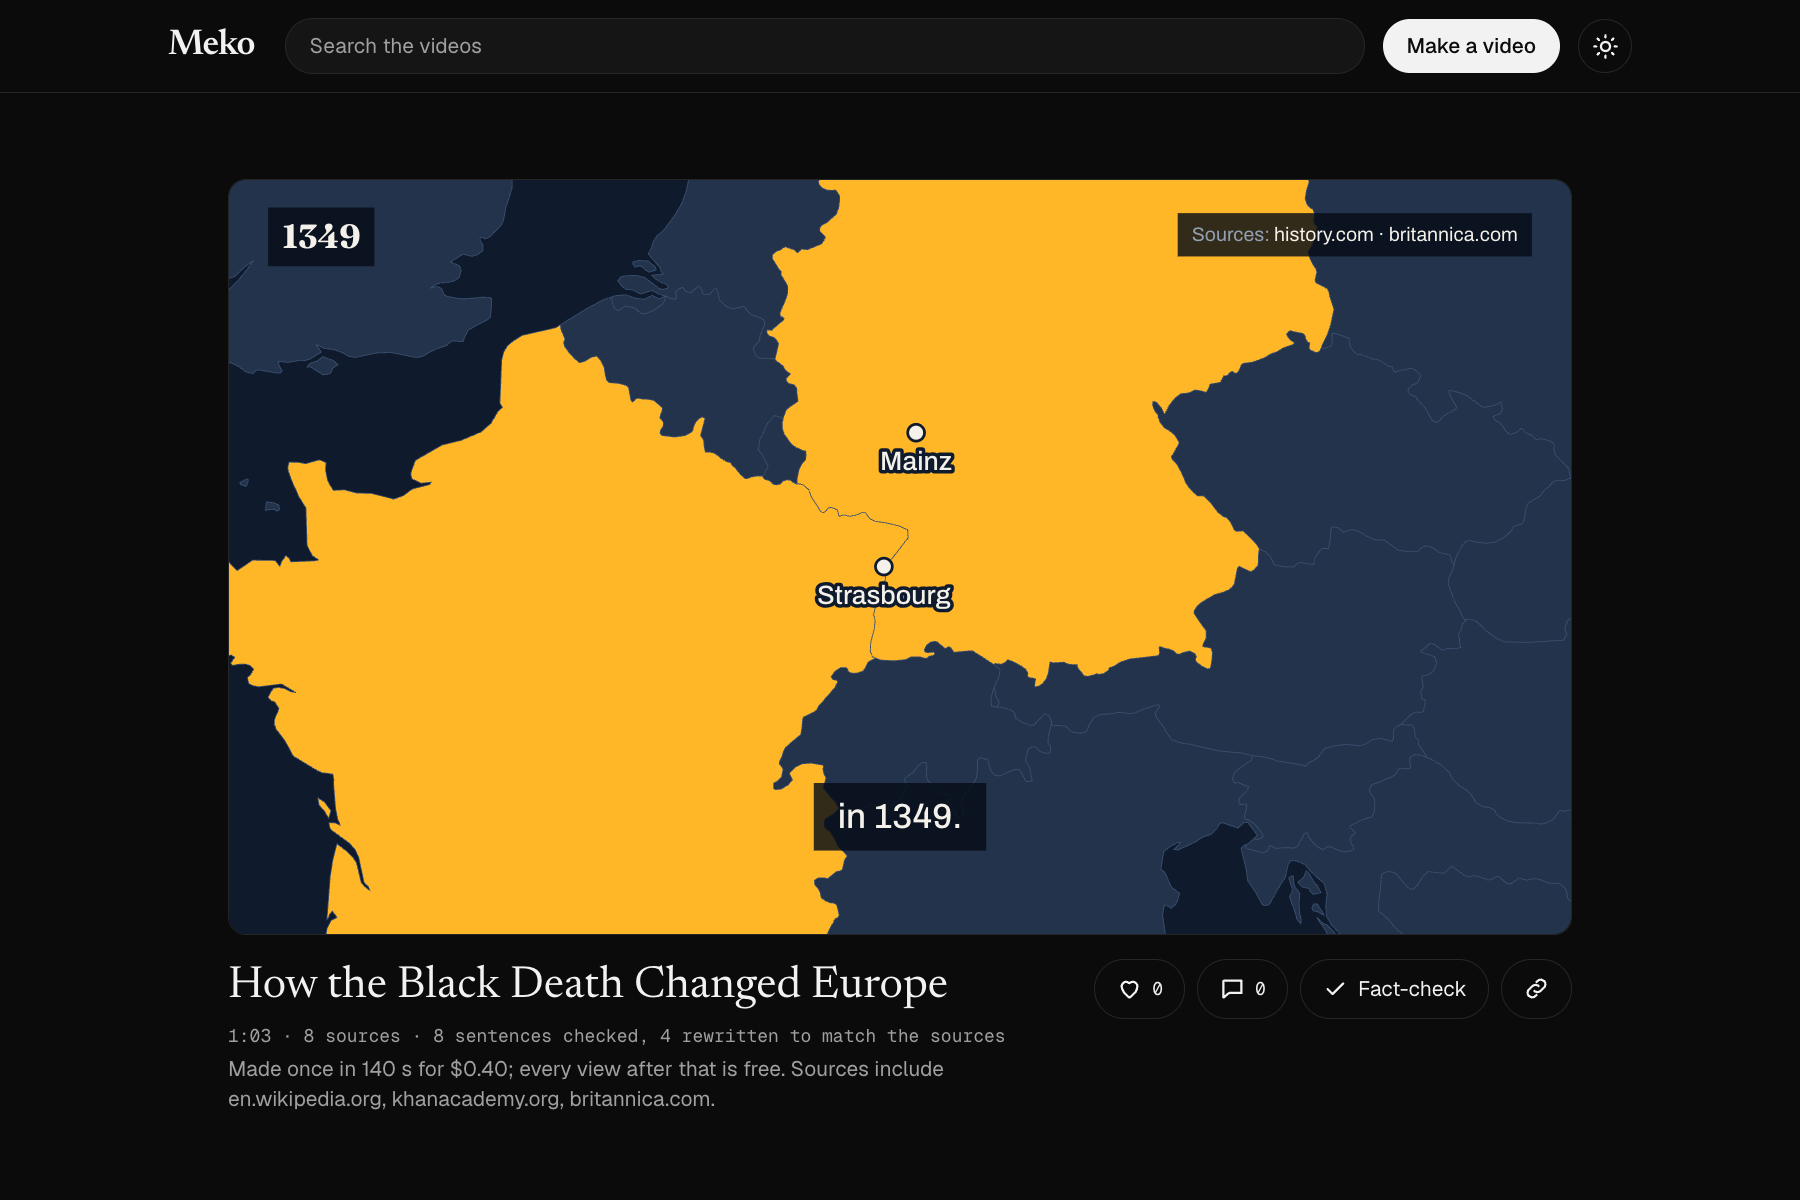
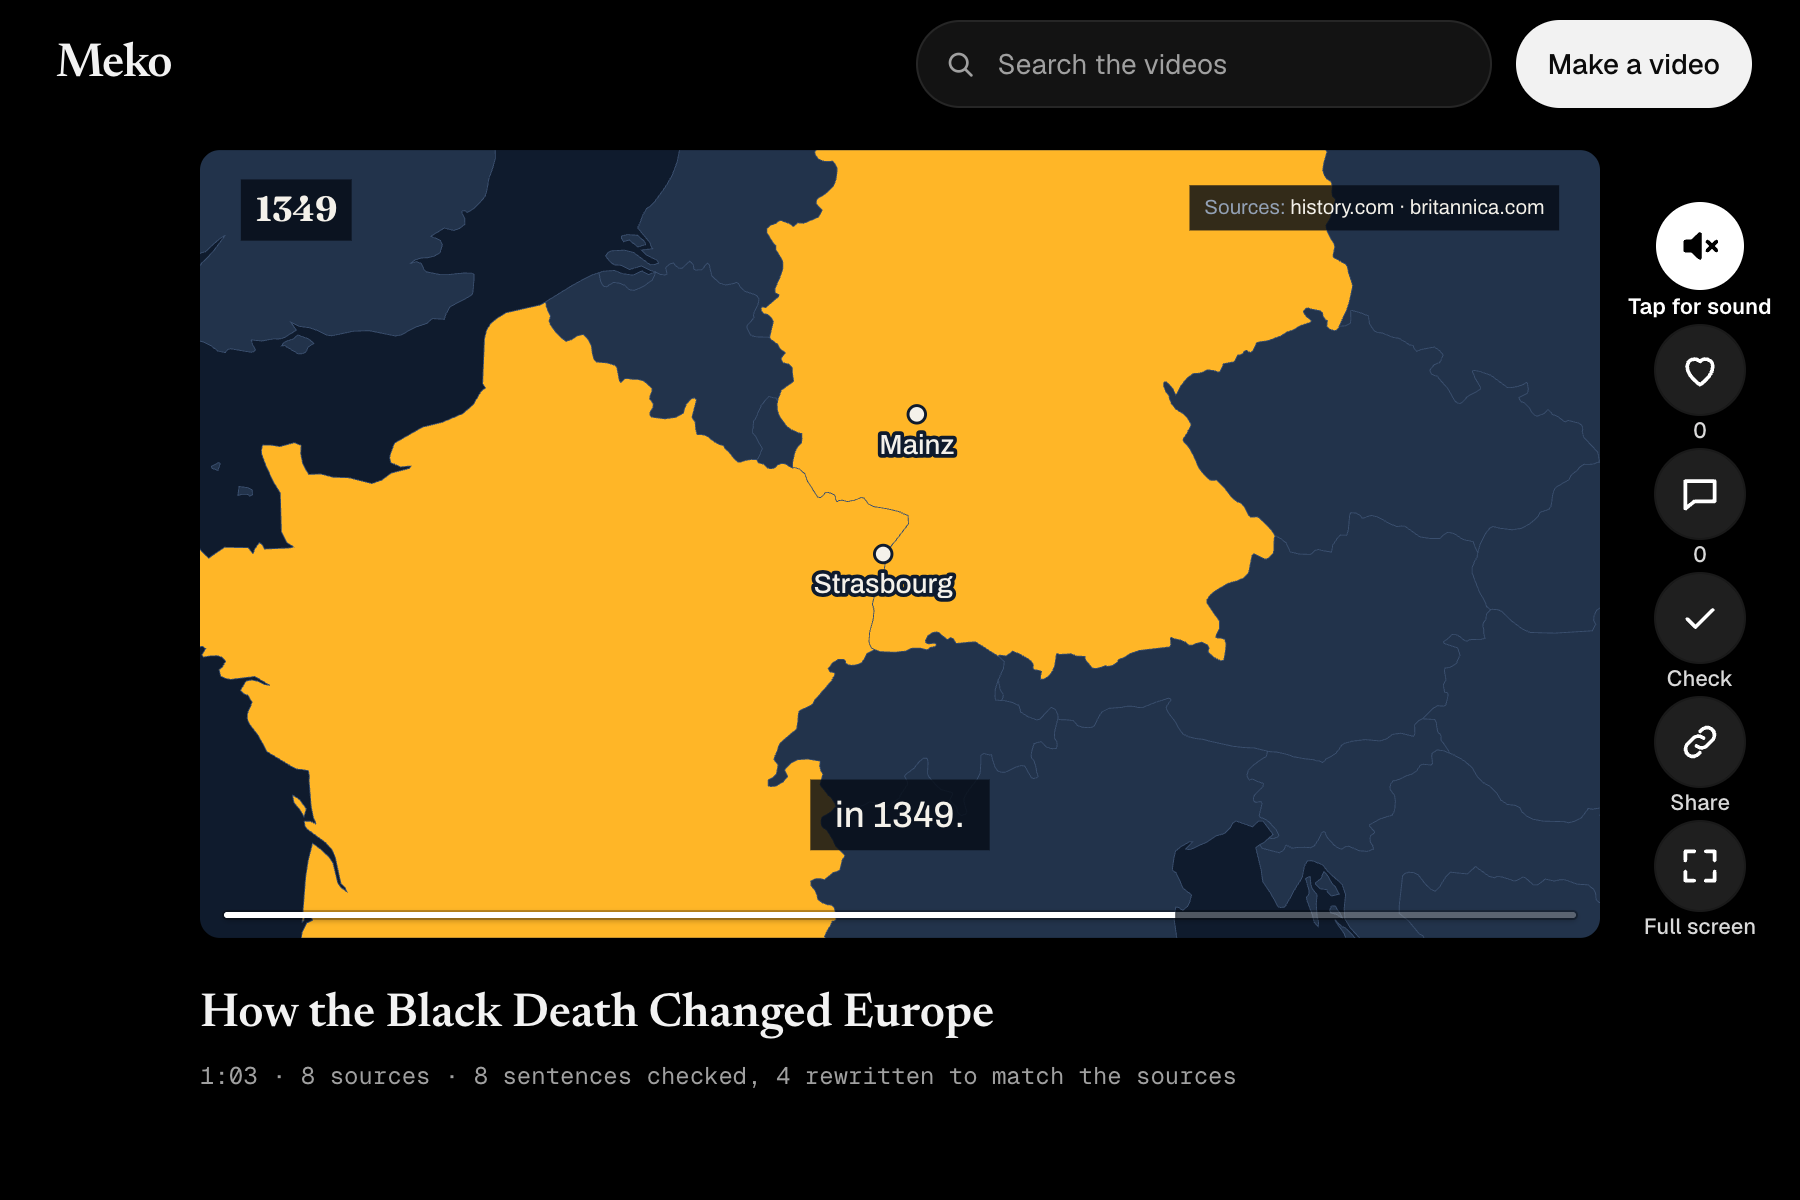
Retake gallery images 2 and 5 from the Shorts-style feed
Both now show the live feed as it is: the video with the rail of buttons
beside it, the progress bar, and no theme switch or made-on line.

diff --git a/docs/submission.md b/docs/submission.md
@@ -148,8 +148,9 @@ hand. Never put the code in the repository.
 
 ## Gallery
 
-Five screenshots of the live site, taken with headless Chrome on Oct 21, 2026 (gallery-5 again on Oct 23, after the feed began to play by itself), 1800 x 1200 PNG. gallery-2 and gallery-5 still show the feed before it became Shorts-like (the theme switch, buttons under the video and the line saying when and for how much each video was made): retake them from the live site once the new feed is deployed, before Oct 30. Upload them in this
-order with these captions; Devpost allows 140 characters per caption. The project's thumbnail is `gallery-2.png`.
+Five screenshots of the live site, taken with headless Chrome on Oct 21, 2026 (gallery-2 and gallery-5 again on Oct 26,
+after the feed became Shorts-like), 1800 x 1200 PNG. Upload them in this order with these captions; Devpost allows 140
+characters per caption. The project's thumbnail is `gallery-2.png`.
 
 1. `docs/images/gallery-1.png`: The start page. Type a topic, pick an audience and a length, and choose Make video.
 2. `docs/images/gallery-2.png`: The feed. In the Black Death video, a map marks Strasbourg and Mainz as the voice names
@@ -237,7 +238,8 @@ recording: once it is made, the same request plays at once from the library. Tha
 - The window at 1920 x 1080, zoom at 100 % (Cmd+0). If the screen is smaller than that, use 1440 x 810, the same
   shape. On a Retina screen the recording is still sharp at 1080p.
 - Bookmarks bar hidden (Cmd+Shift+B). Notifications off: turn on Do Not Disturb, and quit Messages, Mail and chat apps.
-- Pick light or dark mode before you start, and keep it for the whole video. The switch is in the header.
+- Pick light or dark mode before you start, and keep it for the whole video. The switch is in the start page's
+  header; the feed is always dark.
 - The **Demo code** field shows the code as dots, so it can be typed on camera. Do not show it anywhere else.
 - Keep the video's own voice-over low or muted while you speak.
 
